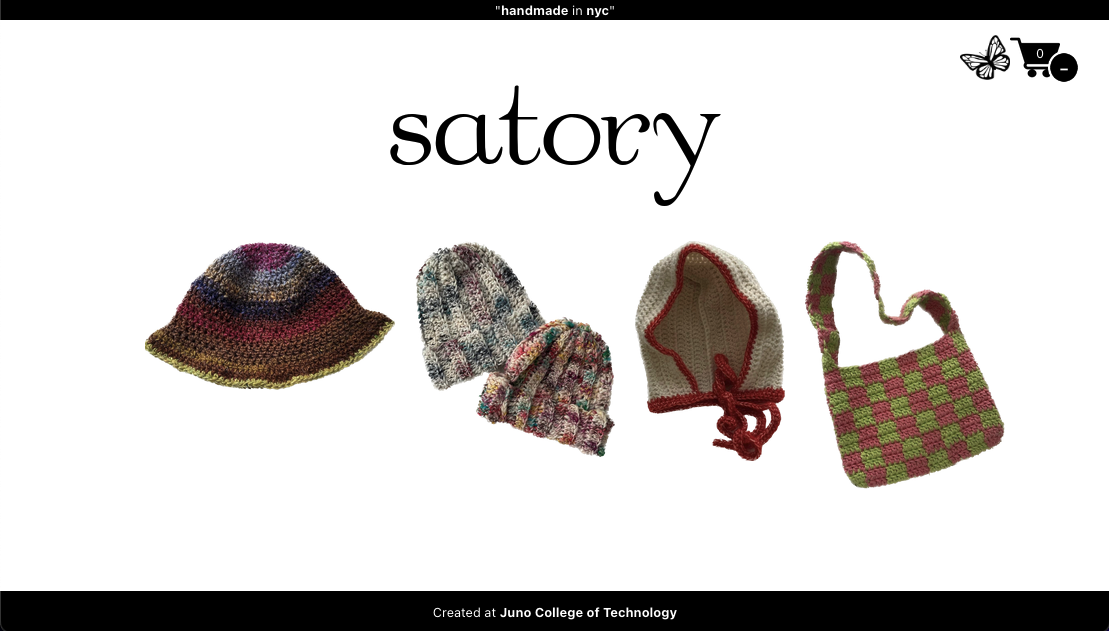
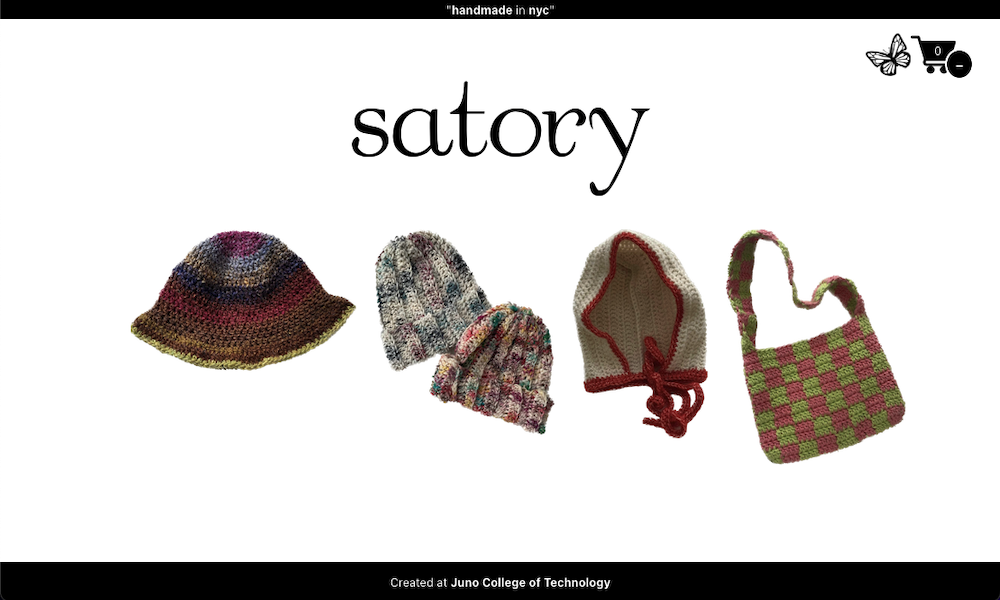
fixed project image sizes

diff --git a/styles/sass/partials/_projects.scss b/styles/sass/partials/_projects.scss
@@ -31,6 +31,7 @@
     width: 48%;
     img {
         width: 100%;
+        height: 100%;
     }
 }
 

diff --git a/styles/styles.css b/styles/styles.css
@@ -592,6 +592,7 @@ p span {
 }
 .project img {
   width: 100%;
+  height: 100%;
 }
 
 .projectHover {
